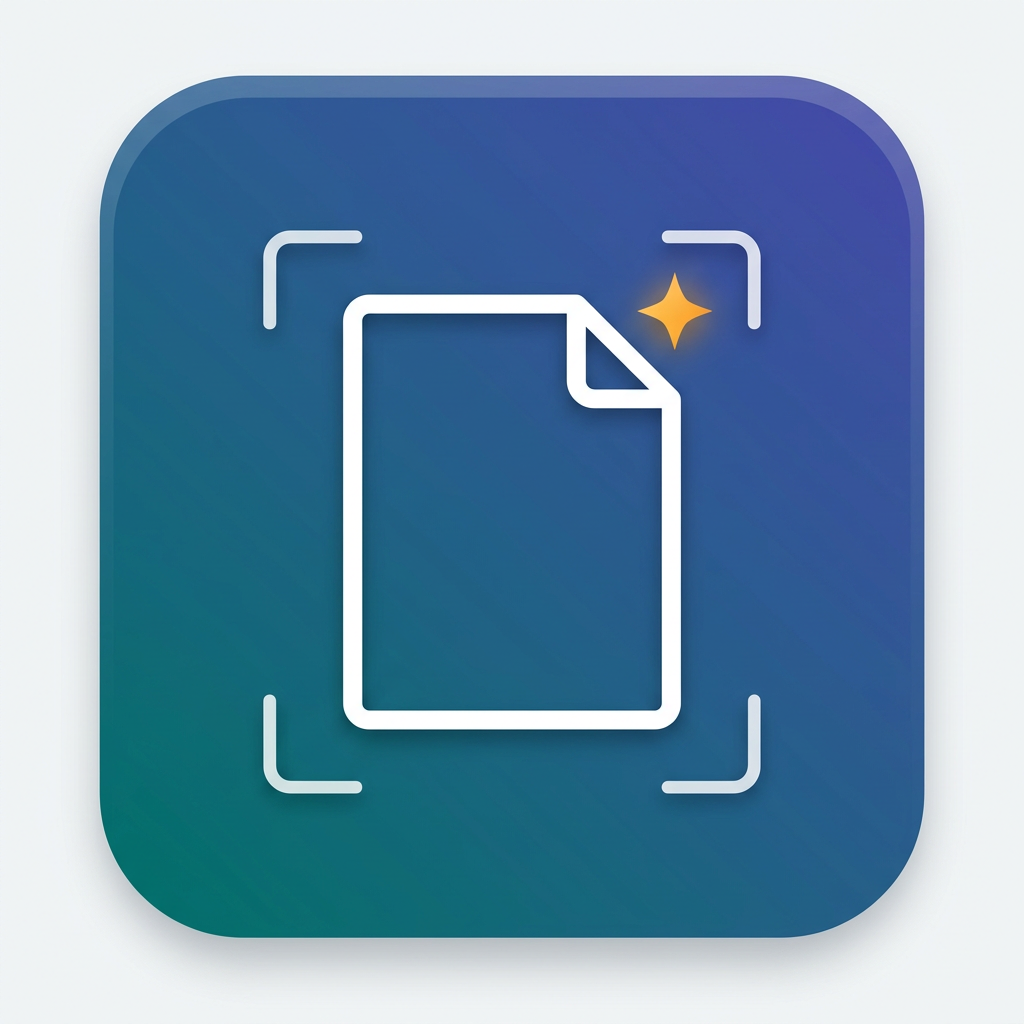
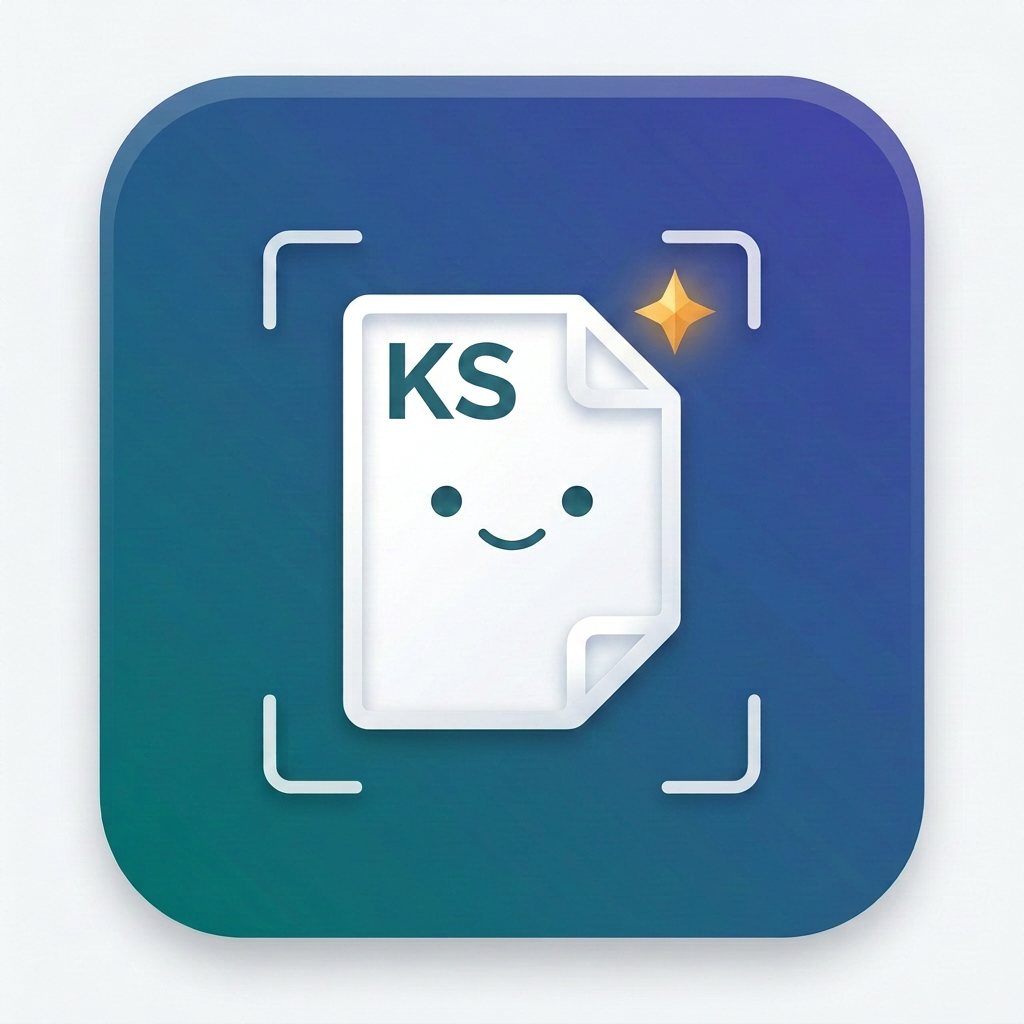
Add animated KS mascot splash and update app package

Changed region(s): [[0.3438, 0.2812, 0.6875, 0.7188], [0.625, 0.25, 0.7188, 0.3438]]

diff --git a/apps/mobile/lib/screens/splash_screen.dart b/apps/mobile/lib/screens/splash_screen.dart
@@ -1,0 +1,243 @@
+import 'package:flutter/material.dart';
+
+/// Short branded transition shown after Android's native launch screen.
+///
+/// The native splash makes cold starts feel immediate. This Flutter layer then
+/// adds the expressive document entrance, scanner beam and sparkle without a
+/// Lottie/runtime dependency.
+class AnimatedLaunchSplash extends StatefulWidget {
+  const AnimatedLaunchSplash({required this.onFinished, super.key});
+
+  final VoidCallback onFinished;
+
+  @override
+  State<AnimatedLaunchSplash> createState() => _AnimatedLaunchSplashState();
+}
+
+class _AnimatedLaunchSplashState extends State<AnimatedLaunchSplash>
+    with SingleTickerProviderStateMixin {
+  late final AnimationController _controller;
+  late final Animation<double> _logoOpacity;
+  late final Animation<double> _logoScale;
+  late final Animation<double> _logoLift;
+  late final Animation<double> _beamPosition;
+  late final Animation<double> _copyOpacity;
+  late final Animation<double> _exitOpacity;
+
+  @override
+  void initState() {
+    super.initState();
+    _controller = AnimationController(
+      vsync: this,
+      duration: const Duration(milliseconds: 2200),
+    );
+
+    _logoOpacity = CurvedAnimation(
+      parent: _controller,
+      curve: const Interval(0, 0.22, curve: Curves.easeOut),
+    );
+    _logoScale = TweenSequence<double>([
+      TweenSequenceItem(
+        tween: Tween(begin: 0.72, end: 1.06)
+            .chain(CurveTween(curve: Curves.easeOutBack)),
+        weight: 68,
+      ),
+      TweenSequenceItem(
+        tween: Tween(begin: 1.06, end: 1),
+        weight: 32,
+      ),
+    ]).animate(
+      CurvedAnimation(
+        parent: _controller,
+        curve: const Interval(0, 0.48),
+      ),
+    );
+    _logoLift = Tween<double>(begin: 12, end: 0).animate(
+      CurvedAnimation(
+        parent: _controller,
+        curve: const Interval(0, 0.35, curve: Curves.easeOutCubic),
+      ),
+    );
+    _beamPosition = Tween<double>(begin: -0.72, end: 0.72).animate(
+      CurvedAnimation(
+        parent: _controller,
+        curve: const Interval(0.28, 0.72, curve: Curves.easeInOutCubic),
+      ),
+    );
+    _copyOpacity = CurvedAnimation(
+      parent: _controller,
+      curve: const Interval(0.34, 0.58, curve: Curves.easeOut),
+    );
+    _exitOpacity = TweenSequence<double>([
+      TweenSequenceItem(tween: ConstantTween<double>(1), weight: 86),
+      TweenSequenceItem(
+        tween: Tween<double>(begin: 1, end: 0)
+            .chain(CurveTween(curve: Curves.easeInCubic)),
+        weight: 14,
+      ),
+    ]).animate(_controller);
+
+    _controller.addStatusListener((status) {
+      if (status == AnimationStatus.completed) widget.onFinished();
+    });
+    _controller.forward();
+  }
+
+  @override
+  void dispose() {
+    _controller.dispose();
+    super.dispose();
+  }
+
+  @override
+  Widget build(BuildContext context) {
+    return IgnorePointer(
+      child: AnimatedBuilder(
+        animation: _controller,
+        builder: (context, _) {
+          return Opacity(
+            opacity: _exitOpacity.value,
+            child: DecoratedBox(
+              decoration: const BoxDecoration(
+                gradient: LinearGradient(
+                  begin: Alignment.topLeft,
+                  end: Alignment.bottomRight,
+                  colors: [
+                    Color(0xFFF4FBFA),
+                    Color(0xFFE9F6F5),
+                    Color(0xFFF2F3FF),
+                  ],
+                ),
+              ),
+              child: SafeArea(
+                child: Center(
+                  child: Semantics(
+                    label: 'Prescription Scanner is opening',
+                    child: Column(
+                      mainAxisSize: MainAxisSize.min,
+                      children: [
+                        Transform.translate(
+                          offset: Offset(0, _logoLift.value),
+                          child: Transform.scale(
+                            scale: _logoScale.value,
+                            child: Opacity(
+                              opacity: _logoOpacity.value,
+                              child: _AnimatedLogo(
+                                beamPosition: _beamPosition.value,
+                                beamVisible:
+                                    _controller.value >= 0.25 &&
+                                    _controller.value <= 0.78,
+                              ),
+                            ),
+                          ),
+                        ),
+                        const SizedBox(height: 28),
+                        Opacity(
+                          opacity: _copyOpacity.value,
+                          child: Transform.translate(
+                            offset: Offset(0, 8 * (1 - _copyOpacity.value)),
+                            child: const Column(
+                              children: [
+                                Text(
+                                  'Prescription Scanner',
+                                  style: TextStyle(
+                                    color: Color(0xFF123A45),
+                                    fontSize: 25,
+                                    height: 1.1,
+                                    fontWeight: FontWeight.w900,
+                                    letterSpacing: -0.7,
+                                  ),
+                                ),
+                                SizedBox(height: 8),
+                                Text(
+                                  'Clear medicine details, made simple',
+                                  style: TextStyle(
+                                    color: Color(0xFF64808A),
+                                    fontSize: 13,
+                                    fontWeight: FontWeight.w600,
+                                    letterSpacing: 0.1,
+                                  ),
+                                ),
+                              ],
+                            ),
+                          ),
+                        ),
+                      ],
+                    ),
+                  ),
+                ),
+              ),
+            ),
+          );
+        },
+      ),
+    );
+  }
+}
+
+class _AnimatedLogo extends StatelessWidget {
+  const _AnimatedLogo({
+    required this.beamPosition,
+    required this.beamVisible,
+  });
+
+  final double beamPosition;
+  final bool beamVisible;
+
+  @override
+  Widget build(BuildContext context) {
+    return Container(
+      width: 184,
+      height: 184,
+      decoration: BoxDecoration(
+        borderRadius: BorderRadius.circular(45),
+        boxShadow: const [
+          BoxShadow(
+            color: Color(0x291A6971),
+            blurRadius: 34,
+            offset: Offset(0, 18),
+          ),
+        ],
+      ),
+      child: ClipRRect(
+        borderRadius: BorderRadius.circular(45),
+        child: Stack(
+          fit: StackFit.expand,
+          children: [
+            Image.asset(
+              'assets/brand/app_icon.png',
+              fit: BoxFit.cover,
+              filterQuality: FilterQuality.high,
+            ),
+            if (beamVisible)
+              Align(
+                alignment: Alignment(0, beamPosition),
+                child: Container(
+                  height: 3,
+                  margin: const EdgeInsets.symmetric(horizontal: 36),
+                  decoration: BoxDecoration(
+                    borderRadius: BorderRadius.circular(99),
+                    gradient: const LinearGradient(
+                      colors: [
+                        Color(0x00B9FFF4),
+                        Color(0xFFFFFFFF),
+                        Color(0xFFFFC65C),
+                        Color(0x00B9FFF4),
+                      ],
+                    ),
+                    boxShadow: const [
+                      BoxShadow(
+                        color: Color(0xCC8CFFF0),
+                        blurRadius: 12,
+                        spreadRadius: 2,
+                      ),
+                    ],
+                  ),
+                ),
+              ),
+          ],
+        ),
+      ),
+    );
+  }
+}

diff --git a/apps/mobile/lib/app.dart b/apps/mobile/lib/app.dart
@@ -1,18 +1,43 @@
 import 'package:flutter/material.dart';
 import 'package:flutter_riverpod/flutter_riverpod.dart';
 import 'package:prescription_scanner/router.dart';
+import 'package:prescription_scanner/screens/splash_screen.dart';
 import 'package:prescription_scanner/theme.dart';
 
-class PrescriptionScannerApp extends ConsumerWidget {
+class PrescriptionScannerApp extends ConsumerStatefulWidget {
   const PrescriptionScannerApp({super.key});
 
   @override
-  Widget build(BuildContext context, WidgetRef ref) {
+  ConsumerState<PrescriptionScannerApp> createState() =>
+      _PrescriptionScannerAppState();
+}
+
+class _PrescriptionScannerAppState
+    extends ConsumerState<PrescriptionScannerApp> {
+  bool _showLaunchSplash = true;
+
+  void _finishLaunchSplash() {
+    if (!mounted || !_showLaunchSplash) return;
+    setState(() => _showLaunchSplash = false);
+  }
+
+  @override
+  Widget build(BuildContext context) {
     return MaterialApp.router(
       title: 'Prescription Scanner',
       debugShowCheckedModeBanner: false,
       theme: AppTheme.light,
       routerConfig: ref.watch(appRouterProvider),
+      builder: (context, child) {
+        return Stack(
+          fit: StackFit.expand,
+          children: [
+            if (child != null) child,
+            if (_showLaunchSplash)
+              AnimatedLaunchSplash(onFinished: _finishLaunchSplash),
+          ],
+        );
+      },
     );
   }
 }

diff --git a/prescription_scanner_ux_prototype.html b/prescription_scanner_ux_prototype.html
@@ -67,7 +67,7 @@ button{font:inherit} .shell{min-height:100vh;display:grid;grid-template-columns:
     </nav>
     <div class="section-title">Operations</div>
     <nav class="nav-list"><button class="nav-button" id="adminButton"><span class="nav-icon">▦</span><span class="label">Admin Panel</span></button></nav>
-    <div class="decision-card"><p><b>Confirmed</b><br>Package: com.rxscanlabs.prescriptionscanner<br>Provider: Gemini<br>Auth: Email + Password<br>Raw image: Delete after successful extraction</p></div>
+    <div class="decision-card"><p><b>Confirmed</b><br>Package: com.keshabstudios.prescriptionscanner<br>Provider: Gemini<br>Auth: Email + Password<br>Raw image: Delete after successful extraction</p></div>
   </aside>
   <main class="stage">
     <header class="stage-head"><div><h2 id="stageTitle">Home experience</h2><p id="stageSubtitle">Trust, clarity and one obvious action.</p></div><span class="status-pill">● Interactive prototype</span></header>

diff --git a/apps/mobile/lib/firebase_options.dart b/apps/mobile/lib/firebase_options.dart
@@ -67,7 +67,7 @@ class DefaultFirebaseOptions {
     messagingSenderId: '780785545429',
     projectId: 'prescription-scanner-admin',
     storageBucket: 'prescription-scanner-admin.firebasestorage.app',
-    iosBundleId: 'com.rxscanlabs.prescriptionscanner',
+    iosBundleId: 'com.keshabstudios.prescriptionscanner',
   );
 
   static const FirebaseOptions macos = FirebaseOptions(
@@ -76,6 +76,6 @@ class DefaultFirebaseOptions {
     messagingSenderId: '780785545429',
     projectId: 'prescription-scanner-admin',
     storageBucket: 'prescription-scanner-admin.firebasestorage.app',
-    iosBundleId: 'com.rxscanlabs.prescriptionscanner',
+    iosBundleId: 'com.keshabstudios.prescriptionscanner',
   );
 }

diff --git a/apps/mobile/test/app_smoke_test.dart b/apps/mobile/test/app_smoke_test.dart
@@ -76,9 +76,8 @@ void main() {
       const ProviderScope(child: PrescriptionScannerApp()),
     );
     // The login screen has a looping aurora backdrop, so pumpAndSettle would
-    // never settle. Pump a fixed window instead to let entrance animations
-    // complete before asserting.
-    await tester.pump(const Duration(milliseconds: 900));
+    // never settle. Pump beyond the branded launch transition before asserting.
+    await tester.pump(const Duration(milliseconds: 2400));
 
     expect(find.text('Prescription Scanner'), findsNothing);
     expect(find.text('Welcome back'), findsOneWidget);

diff --git a/apps/mobile/android/app/src/main/kotlin/com/keshabstudios/prescriptionscanner/MainActivity.kt b/apps/mobile/android/app/src/main/kotlin/com/keshabstudios/prescriptionscanner/MainActivity.kt
@@ -1,4 +1,4 @@
-package com.rxscanlabs.prescriptionscanner
+package com.keshabstudios.prescriptionscanner
 
 import io.flutter.embedding.android.FlutterActivity
 

diff --git a/README.md b/README.md
@@ -2,7 +2,7 @@
 
 Android-first prescription transcription app by **Keshab Studios**.
 
-- App ID: `com.rxscanlabs.prescriptionscanner`
+- App ID: `com.keshabstudios.prescriptionscanner`
 - First market: India
 - First language: English
 - First AI provider: Gemini
@@ -43,7 +43,7 @@ flutter test
 flutter run --dart-define-from-file=.env.local.json
 ```
 
-Use `scripts/bootstrap_flutter_android.sh` only to regenerate missing Android files. It restores package ID `com.rxscanlabs.prescriptionscanner`, permissions, auth callback, AdMob test metadata, and crop activity.
+Use `scripts/bootstrap_flutter_android.sh` only to regenerate missing Android files. It restores package ID `com.keshabstudios.prescriptionscanner`, permissions, auth callback, AdMob test metadata, and crop activity.
 
 GitHub Actions workflow `.github/workflows/mobile_ci.yml` automatically analyzes, tests, and builds a debug APK on every push to `main`.
 

diff --git a/AGENTS.md b/AGENTS.md
@@ -22,7 +22,7 @@ Current app direction:
 - Backend: **Firebase** (Firebase Auth + Firestore + Firebase Storage-ready)
 - AI provider: Gemini, called **directly on-device** from the mobile app via the Firestore-backed admin API key pool (`admin_api_key_manager`). No server-side AI.
 - Prescription images and results are processed on-device and stored only in local Hive; they never leave the phone.
-- Android package/app ID target: `com.rxscanlabs.prescriptionscanner`
+- Android package/app ID target: `com.keshabstudios.prescriptionscanner`
 
 ## Token-saving workflow
 

diff --git a/prescription_ai_app_roadmap_bn.md b/prescription_ai_app_roadmap_bn.md
@@ -156,7 +156,7 @@ prescription-ai/
 - **Launch market:** India first
 - **Authentication:** Email + Password for MVP
 - **Original image retention:** Delete automatically after a successful structured result is saved
-- **Confirmed package ID:** `com.rxscanlabs.prescriptionscanner` — Play Console availability confirmed by project owner
+- **Confirmed package ID:** `com.keshabstudios.prescriptionscanner` — Play Console availability confirmed by project owner
 - **Developer/brand name:** Keshab Studios
 - **Support email:** keshabsarkar2018@gmail.com
 

diff --git a/docs/phase_4_auth_setup.md b/docs/phase_4_auth_setup.md
@@ -39,7 +39,7 @@ Open:
 Add this exact URL:
 
 ```text
-com.rxscanlabs.prescriptionscanner://login-callback
+com.keshabstudios.prescriptionscanner://login-callback
 ```
 
 It is used for email verification and password recovery. The Android bootstrap script adds the matching intent filter to `AndroidManifest.xml`.

diff --git a/docs/phase_2_foundation.md b/docs/phase_2_foundation.md
@@ -5,7 +5,7 @@
 - App: Prescription Scanner
 - Developer: Keshab Studios
 - Support: keshabsarkar2018@gmail.com
-- Android package: com.rxscanlabs.prescriptionscanner
+- Android package: com.keshabstudios.prescriptionscanner
 - Launch market: India
 - UI: English
 - AI provider: Gemini
